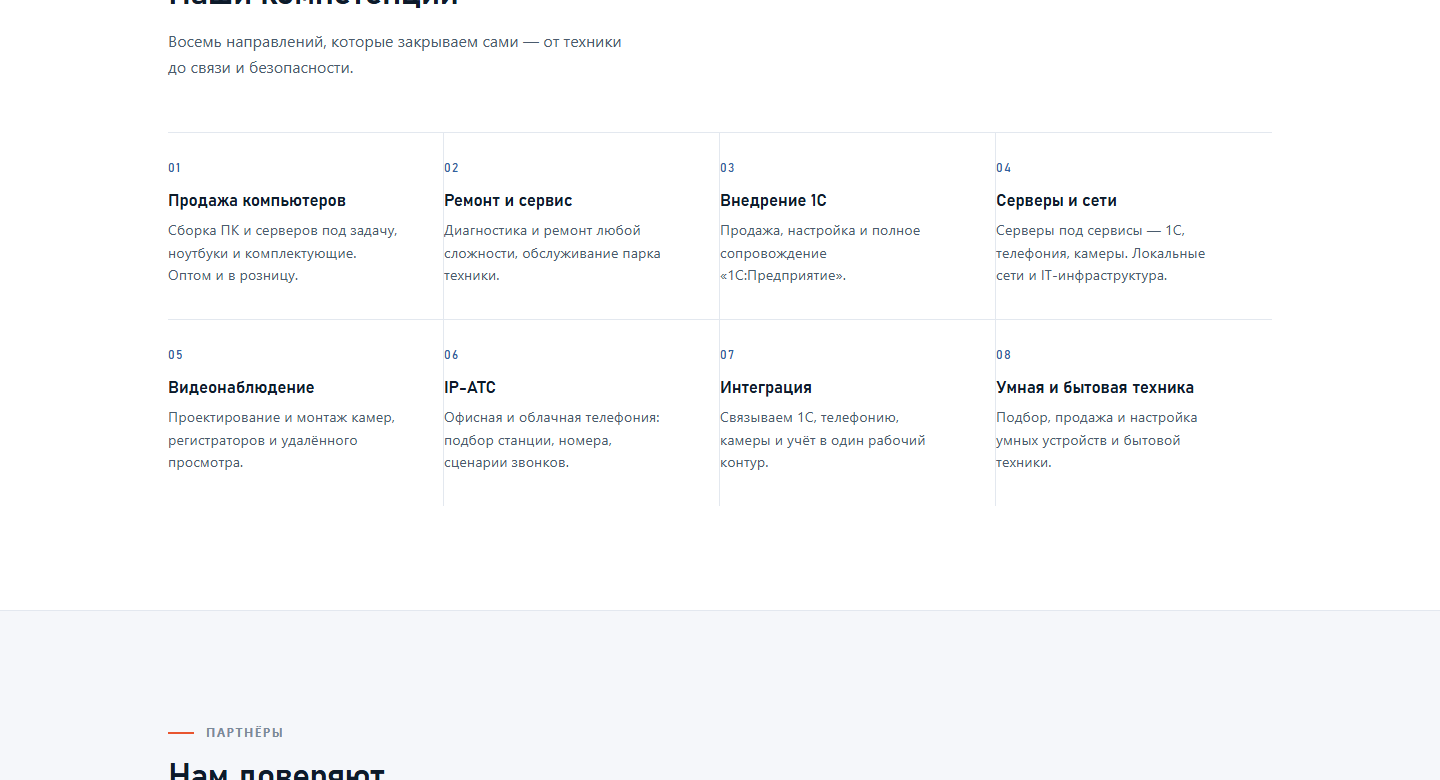
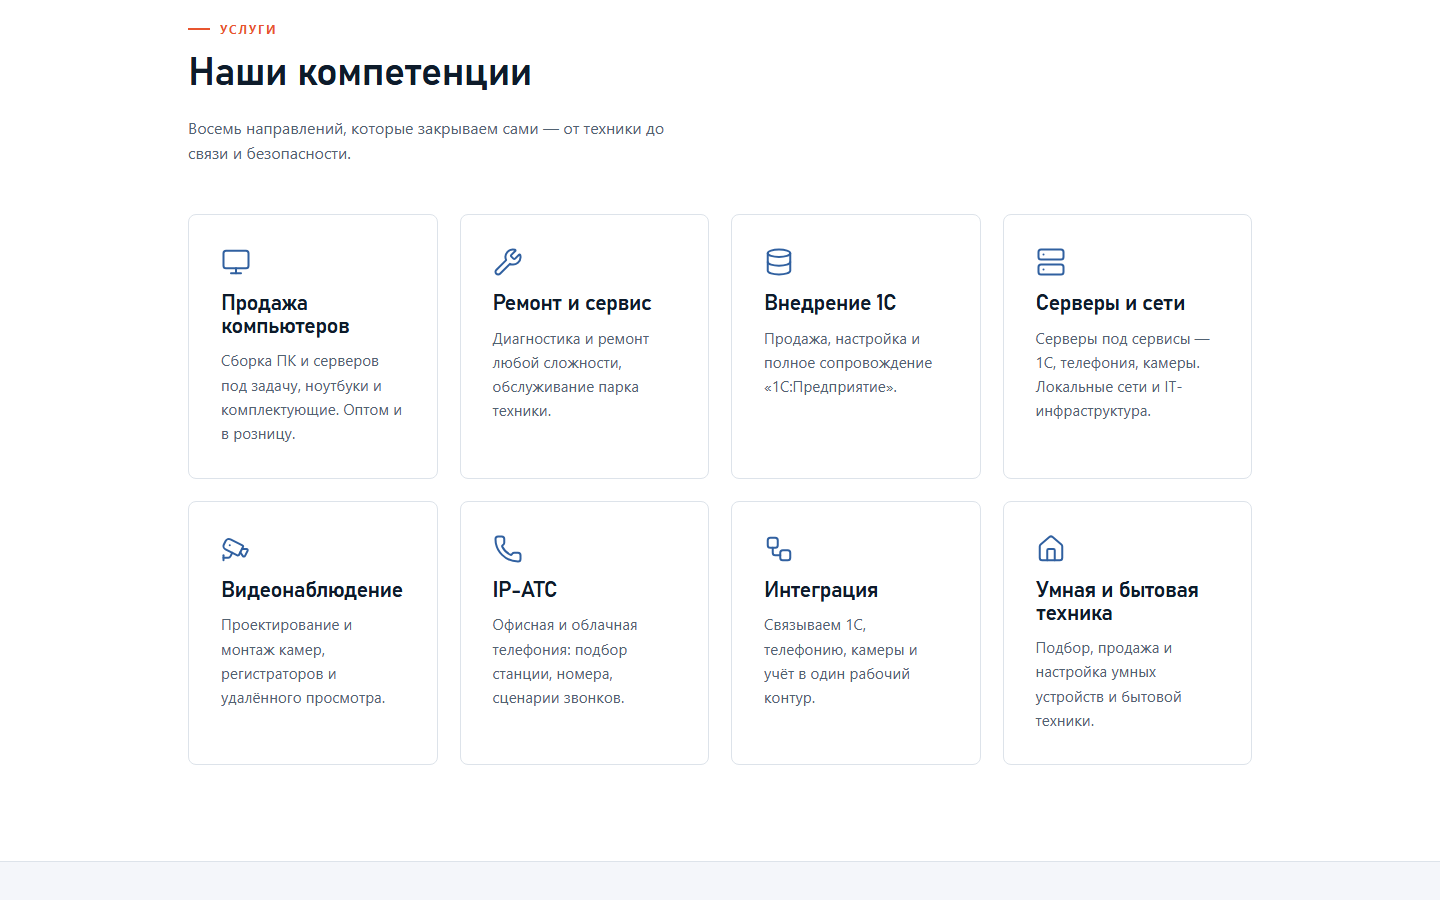
Иконки вместо номеров в карточках услуг (Lucide, inline SVG)

diff --git a/index.html b/index.html
@@ -164,42 +164,144 @@
 
         <div class="cards cards--8">
           <article class="card">
-            <span class="card-icon" aria-hidden="true">01</span>
+            <svg
+  class="service__icon" aria-hidden="true" focusable="false"
+  xmlns="http://www.w3.org/2000/svg"
+  viewBox="0 0 24 24"
+  fill="none"
+  stroke="currentColor"
+  stroke-width="1.6"
+  stroke-linecap="round"
+  stroke-linejoin="round"
+>
+  <rect width="20" height="14" x="2" y="3" rx="2" />
+  <line x1="8" x2="16" y1="21" y2="21" />
+  <line x1="12" x2="12" y1="17" y2="21" />
+</svg>
             <h3>Продажа компьютеров</h3>
             <p>Сборка ПК и серверов под задачу, ноутбуки и комплектующие. Оптом и в розницу.</p>
           </article>
           <article class="card">
-            <span class="card-icon" aria-hidden="true">02</span>
+            <svg
+  class="service__icon" aria-hidden="true" focusable="false"
+  xmlns="http://www.w3.org/2000/svg"
+  viewBox="0 0 24 24"
+  fill="none"
+  stroke="currentColor"
+  stroke-width="1.6"
+  stroke-linecap="round"
+  stroke-linejoin="round"
+>
+  <path d="M14.7 6.3a1 1 0 0 0 0 1.4l1.6 1.6a1 1 0 0 0 1.4 0l3.106-3.105c.32-.322.863-.22.983.218a6 6 0 0 1-8.259 7.057l-7.91 7.91a1 1 0 0 1-2.999-3l7.91-7.91a6 6 0 0 1 7.057-8.259c.438.12.54.662.219.984z" />
+</svg>
             <h3>Ремонт и сервис</h3>
             <p>Диагностика и ремонт любой сложности, обслуживание парка техники.</p>
           </article>
           <article class="card">
-            <span class="card-icon" aria-hidden="true">03</span>
+            <svg
+  class="service__icon" aria-hidden="true" focusable="false"
+  xmlns="http://www.w3.org/2000/svg"
+  viewBox="0 0 24 24"
+  fill="none"
+  stroke="currentColor"
+  stroke-width="1.6"
+  stroke-linecap="round"
+  stroke-linejoin="round"
+>
+  <ellipse cx="12" cy="5" rx="9" ry="3" />
+  <path d="M3 5V19A9 3 0 0 0 21 19V5" />
+  <path d="M3 12A9 3 0 0 0 21 12" />
+</svg>
             <h3>Внедрение 1С</h3>
             <p>Продажа, настройка и полное сопровождение «1С:Предприятие».</p>
           </article>
           <article class="card">
-            <span class="card-icon" aria-hidden="true">04</span>
+            <svg
+  class="service__icon" aria-hidden="true" focusable="false"
+  xmlns="http://www.w3.org/2000/svg"
+  viewBox="0 0 24 24"
+  fill="none"
+  stroke="currentColor"
+  stroke-width="1.6"
+  stroke-linecap="round"
+  stroke-linejoin="round"
+>
+  <rect width="20" height="8" x="2" y="2" rx="2" ry="2" />
+  <rect width="20" height="8" x="2" y="14" rx="2" ry="2" />
+  <line x1="6" x2="6.01" y1="6" y2="6" />
+  <line x1="6" x2="6.01" y1="18" y2="18" />
+</svg>
             <h3>Серверы и сети</h3>
             <p>Серверы под сервисы — 1С, телефония, камеры. Локальные сети и IT-инфраструктура.</p>
           </article>
           <article class="card">
-            <span class="card-icon" aria-hidden="true">05</span>
+            <svg
+  class="service__icon" aria-hidden="true" focusable="false"
+  xmlns="http://www.w3.org/2000/svg"
+  viewBox="0 0 24 24"
+  fill="none"
+  stroke="currentColor"
+  stroke-width="1.6"
+  stroke-linecap="round"
+  stroke-linejoin="round"
+>
+  <path d="M16.75 12h3.632a1 1 0 0 1 .894 1.447l-2.034 4.069a1 1 0 0 1-1.708.134l-2.124-2.97" />
+  <path d="M17.106 9.053a1 1 0 0 1 .447 1.341l-3.106 6.211a1 1 0 0 1-1.342.447L3.61 12.3a2.92 2.92 0 0 1-1.3-3.91L3.69 5.6a2.92 2.92 0 0 1 3.92-1.3z" />
+  <path d="M2 19h3.76a2 2 0 0 0 1.8-1.1L9 15" />
+  <path d="M2 21v-4" />
+  <path d="M7 9h.01" />
+</svg>
             <h3>Видеонаблюдение</h3>
             <p>Проектирование и монтаж камер, регистраторов и удалённого просмотра.</p>
           </article>
           <article class="card">
-            <span class="card-icon" aria-hidden="true">06</span>
+            <svg
+  class="service__icon" aria-hidden="true" focusable="false"
+  xmlns="http://www.w3.org/2000/svg"
+  viewBox="0 0 24 24"
+  fill="none"
+  stroke="currentColor"
+  stroke-width="1.6"
+  stroke-linecap="round"
+  stroke-linejoin="round"
+>
+  <path d="M13.832 16.568a1 1 0 0 0 1.213-.303l.355-.465A2 2 0 0 1 17 15h3a2 2 0 0 1 2 2v3a2 2 0 0 1-2 2A18 18 0 0 1 2 4a2 2 0 0 1 2-2h3a2 2 0 0 1 2 2v3a2 2 0 0 1-.8 1.6l-.468.351a1 1 0 0 0-.292 1.233 14 14 0 0 0 6.392 6.384" />
+</svg>
             <h3>IP-АТС</h3>
             <p>Офисная и облачная телефония: подбор станции, номера, сценарии звонков.</p>
           </article>
           <article class="card">
-            <span class="card-icon" aria-hidden="true">07</span>
+            <svg
+  class="service__icon" aria-hidden="true" focusable="false"
+  xmlns="http://www.w3.org/2000/svg"
+  viewBox="0 0 24 24"
+  fill="none"
+  stroke="currentColor"
+  stroke-width="1.6"
+  stroke-linecap="round"
+  stroke-linejoin="round"
+>
+  <rect width="8" height="8" x="3" y="3" rx="2" />
+  <path d="M7 11v4a2 2 0 0 0 2 2h4" />
+  <rect width="8" height="8" x="13" y="13" rx="2" />
+</svg>
             <h3>Интеграция</h3>
             <p>Связываем 1С, телефонию, камеры и учёт в один рабочий контур.</p>
           </article>
           <article class="card">
-            <span class="card-icon" aria-hidden="true">08</span>
+            <svg
+  class="service__icon" aria-hidden="true" focusable="false"
+  xmlns="http://www.w3.org/2000/svg"
+  viewBox="0 0 24 24"
+  fill="none"
+  stroke="currentColor"
+  stroke-width="1.6"
+  stroke-linecap="round"
+  stroke-linejoin="round"
+>
+  <path d="M15 21v-8a1 1 0 0 0-1-1h-4a1 1 0 0 0-1 1v8" />
+  <path d="M3 10a2 2 0 0 1 .709-1.528l7-6a2 2 0 0 1 2.582 0l7 6A2 2 0 0 1 21 10v9a2 2 0 0 1-2 2H5a2 2 0 0 1-2-2z" />
+</svg>
             <h3>Умная и бытовая техника</h3>
             <p>Подбор, продажа и настройка умных устройств и бытовой техники.</p>
           </article>

diff --git a/assets/style.css b/assets/style.css
@@ -1040,3 +1040,13 @@ p:last-child { margin-bottom: 0; }
   color: var(--ink-soft);
   max-width: 44ch;
 }
+/* Иконки услуг вместо номеров */
+.service__icon {
+  display: block;
+  width: 30px;
+  height: 30px;
+  margin-bottom: 16px;
+  color: var(--blue);
+  stroke: currentColor;
+  fill: none;
+}

diff --git a/README.md b/README.md
@@ -20,7 +20,8 @@ ivu-site/
 │  ├─ logo.png       ← фирменный знак «ИТ+», прозрачный фон
 │  ├─ icon.png       ← иконка сайта и apple-touch-icon, 256×256
 │  ├─ og.png         ← превью 1200×630 для мессенджеров
-│  └─ partners/      ← логотипы партнёров (svg)
+│  ├─ partners/      ← логотипы партнёров (svg)
+│  └─ icons/         ← иконки услуг (Lucide, ISC), вставлены inline
 ├─ tools/og.html     ← из этого файла рендерится og.png, на сайт не идёт
 ├─ 404.html          ← страница «не найдено»
 ├─ robots.txt        ← правила для поисковиков
